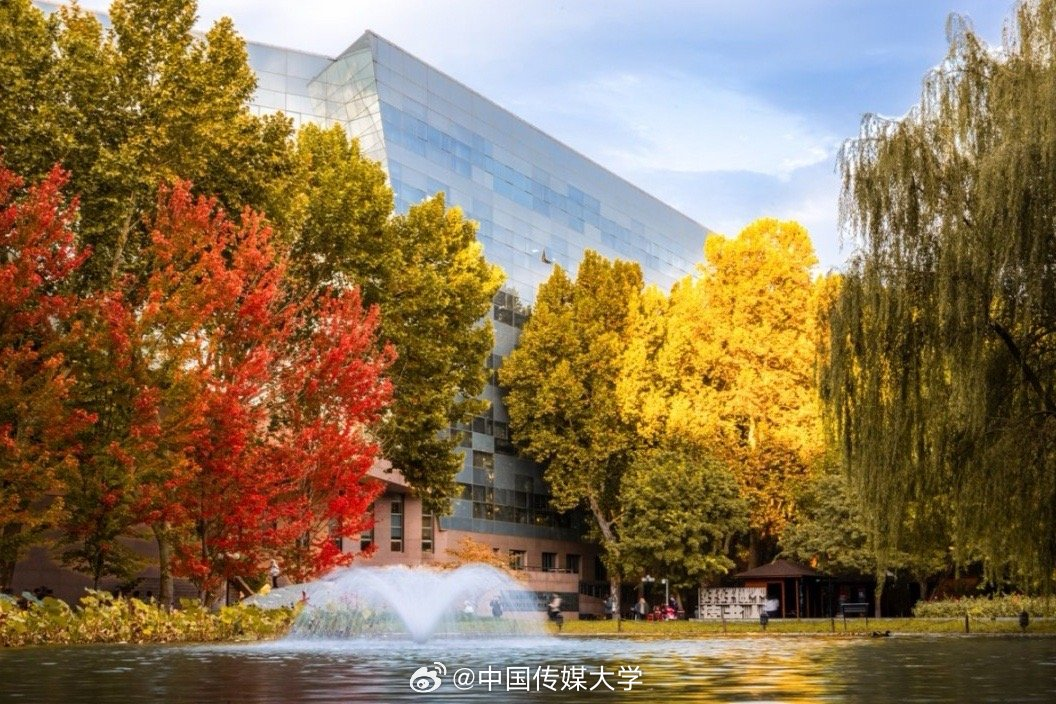
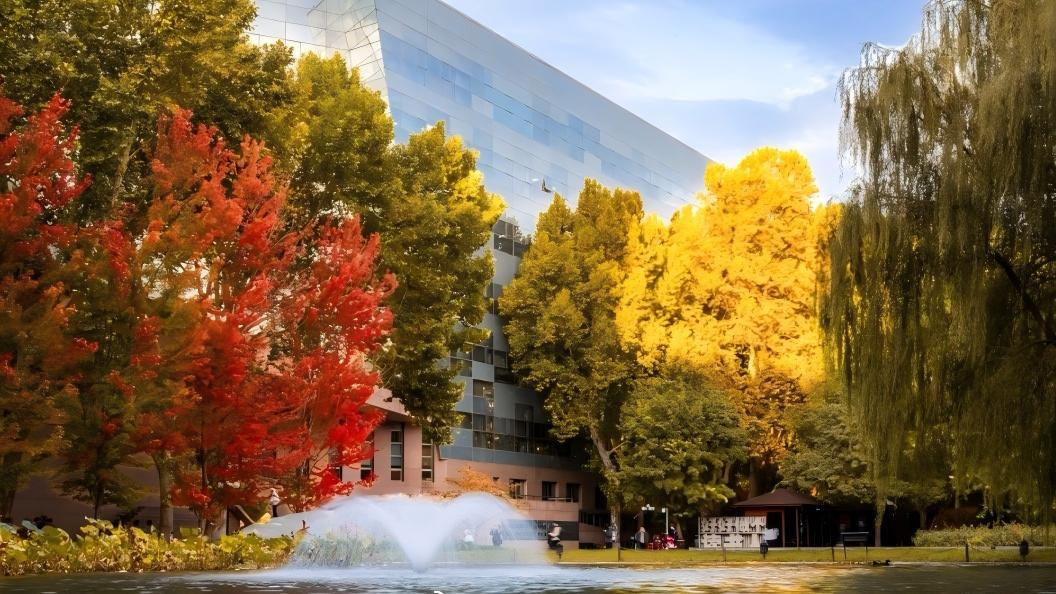
modify

diff --git a/_layouts/homelay.html b/_layouts/homelay.html
@@ -10,7 +10,7 @@ layout: default
     </div>
     <div class="home-header-carousel-track" style="width: {{ site.data.header_slides.size | times: 100 }}%;">
       {% for slide in site.data.header_slides %}
-      <div class="home-header-carousel-slide" style="width: {{ 100 | divided_by: site.data.header_slides.size }}%;" data-src="{{ slide.image | prepend: site.baseurl | prepend: site.url }}">
+      <div class="home-header-carousel-slide" style="width: {{ 100.0 | divided_by: site.data.header_slides.size }}%;" data-src="{{ slide.image | prepend: site.baseurl | prepend: site.url }}">
         <img src="{{ slide.image | prepend: site.baseurl | prepend: site.url }}" alt="MIPG">
       </div>
       {% endfor %}
